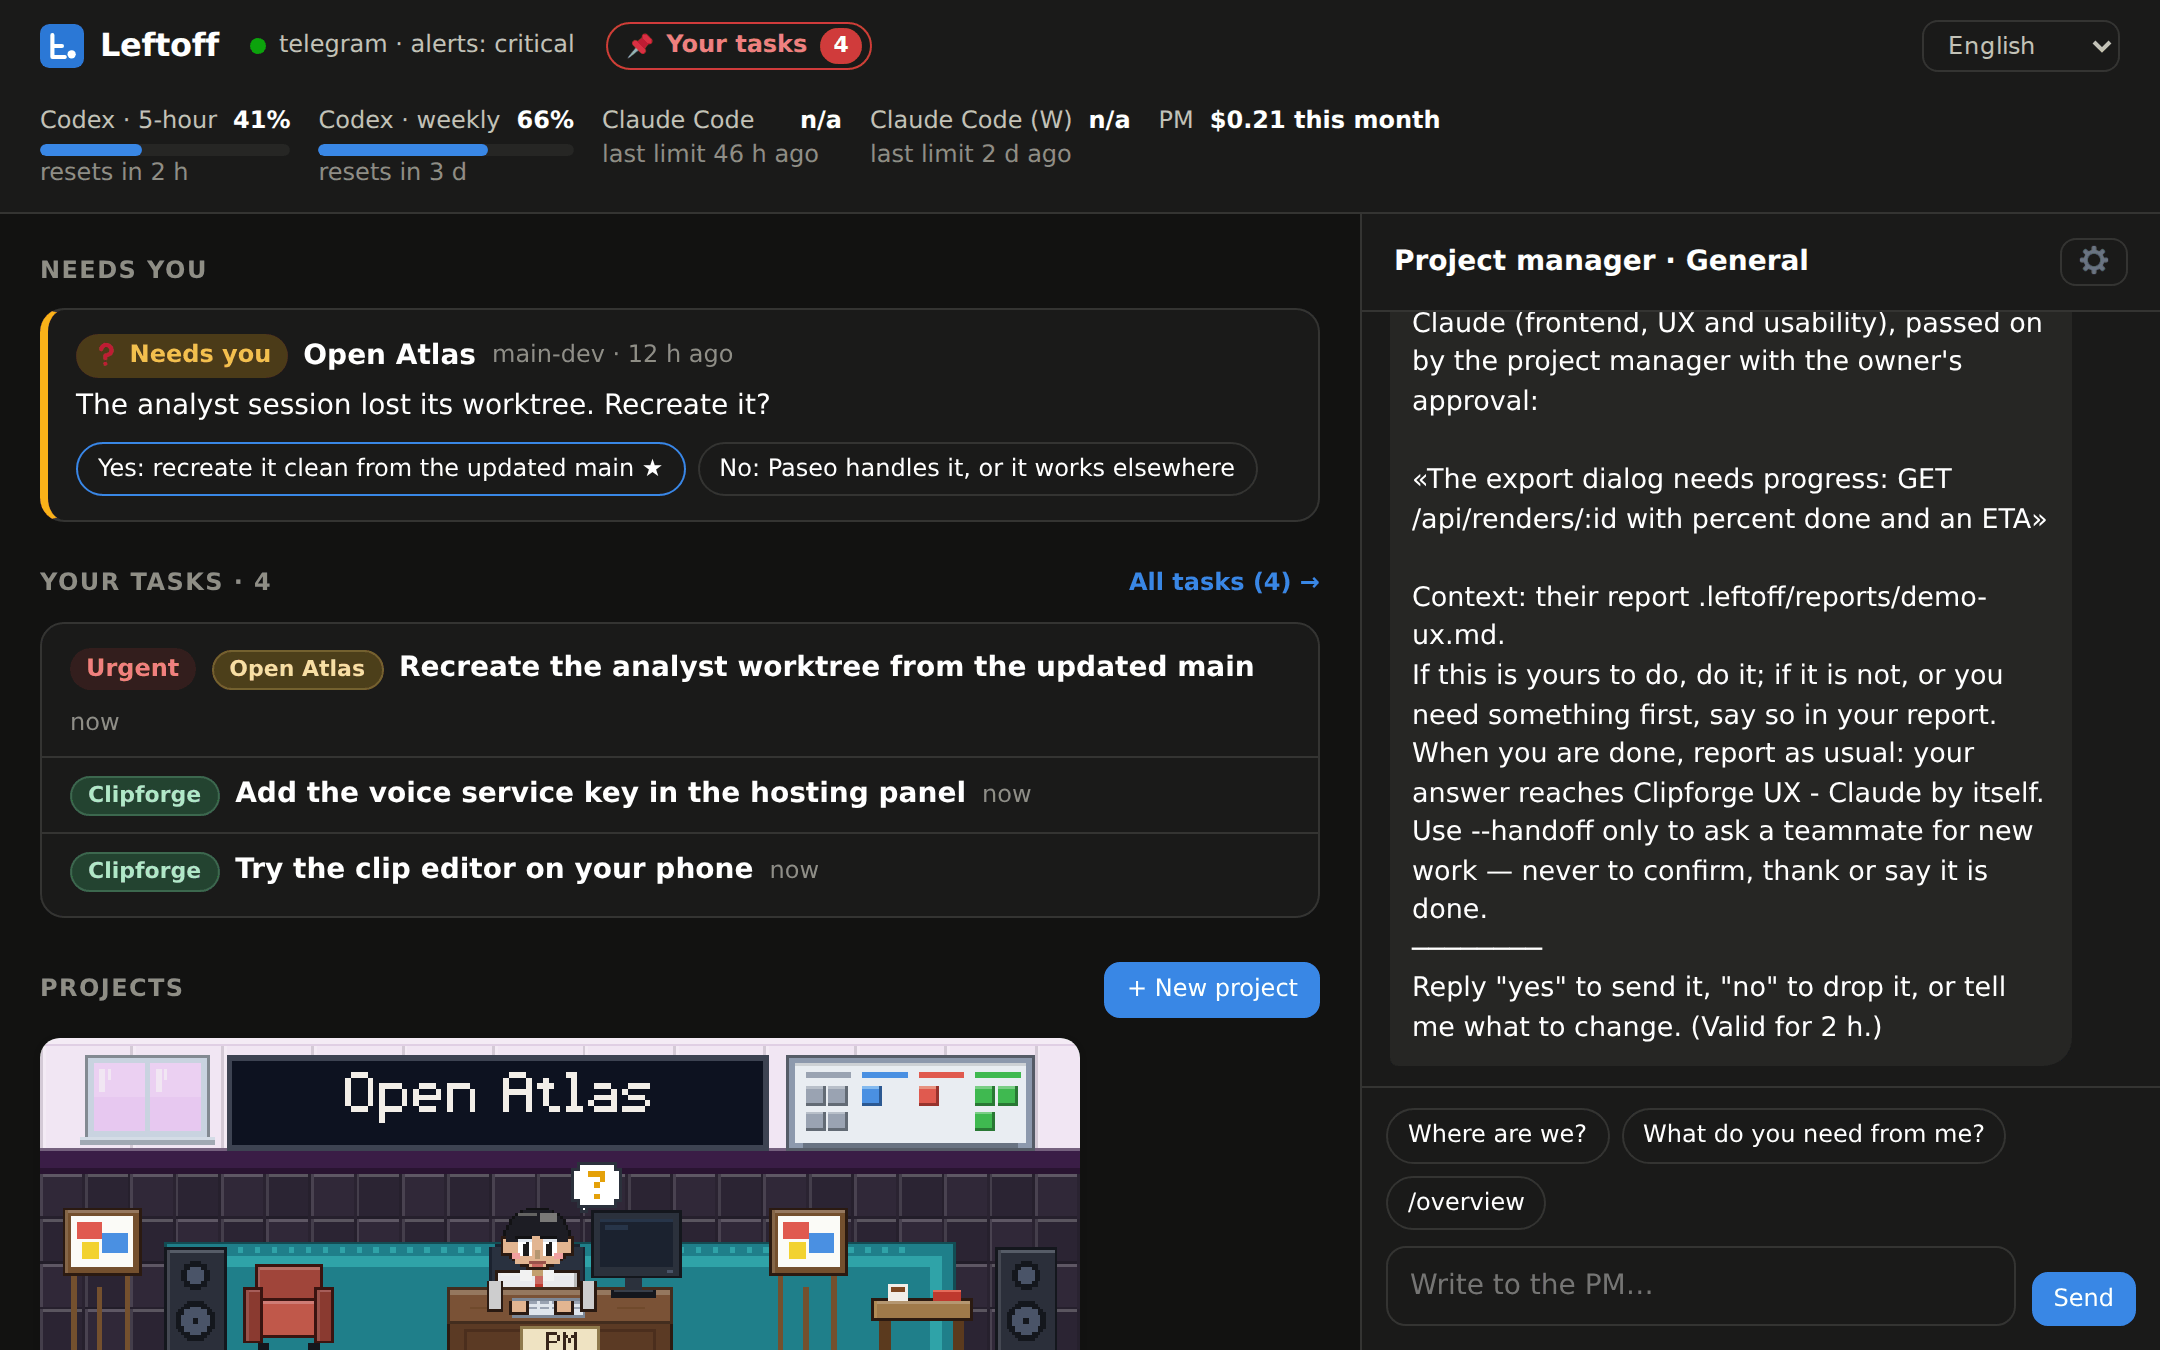
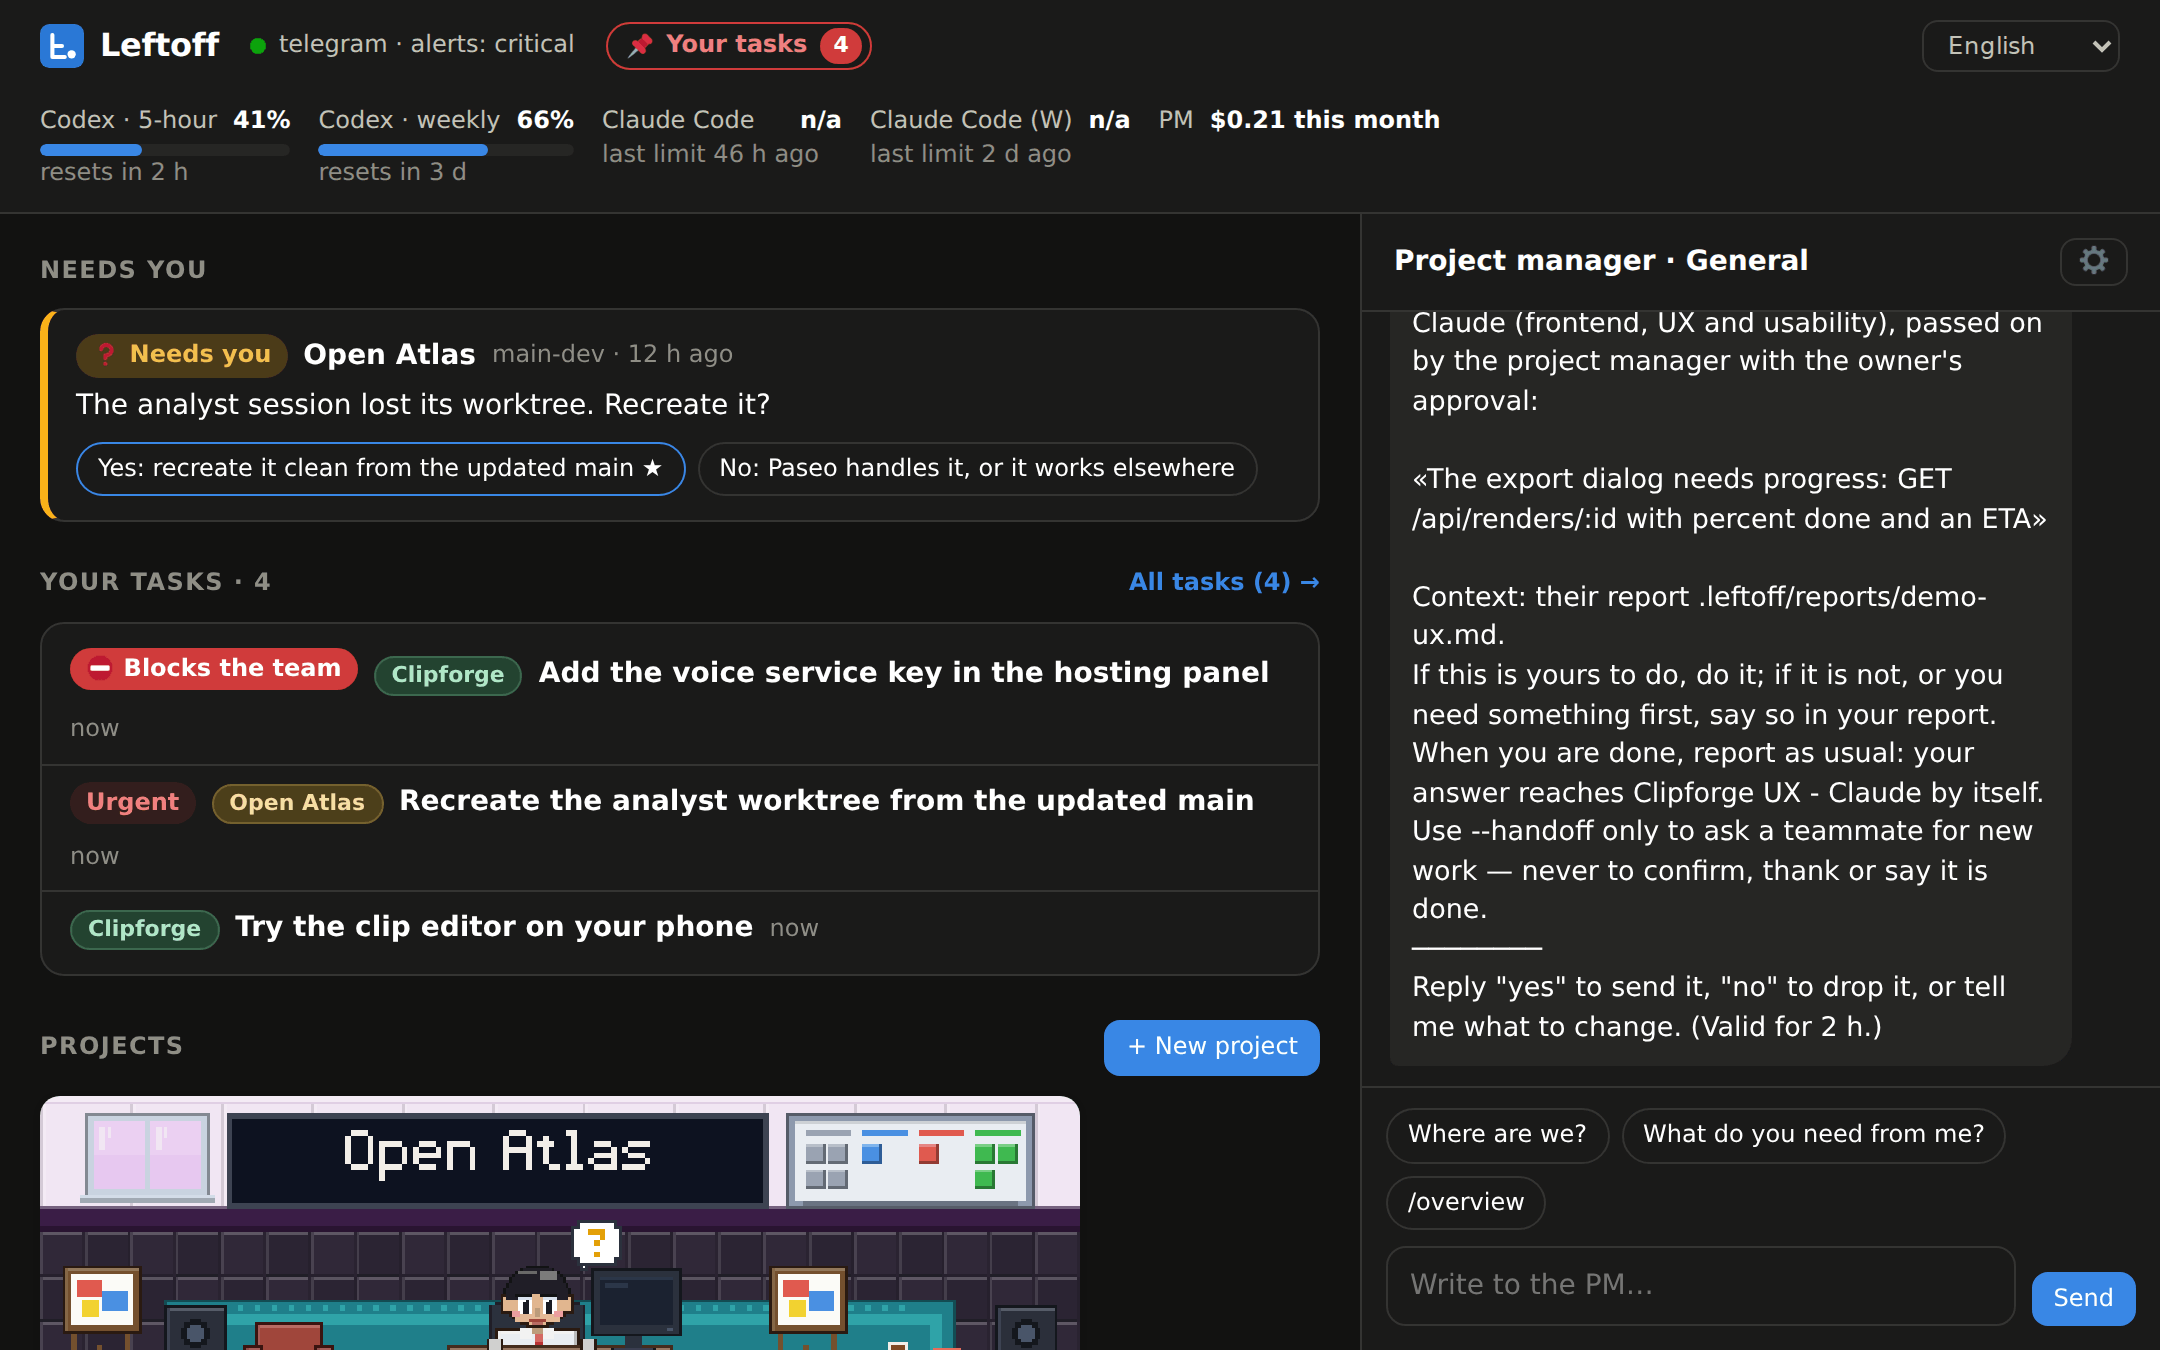
0.2.0 screenshots: a task that blocks the team, a log attached and delivered, Markdown; README alt texts, light and dark
- The demo's voice-key task blocks the team; its chat gains the owner's log sent as a Markdown file (through the
  hub's own upload), marked delivered, and an answer with bold, a list and a command to copy.
- docs/images overview, project, tasks (and «-dark»), regenerated from the demo with scripts/screenshots.mjs.
- README: the three pictures as <picture> with their dark twin, new alt texts saying what they show, tasks.png under
  «Your own to-do list», and a line crediting the screenshots' emoji (Twemoji, CC-BY 4.0).

Changed region(s): [[0.0, 0.4667, 0.6204, 1.0]]

diff --git a/scripts/demo.ts b/scripts/demo.ts
@@ -483,12 +483,23 @@ hub.attachAgents(settings);
   const { appendTaskChat, listOwnerTasks, markDelivery } = await import("../src/hub/owner-tasks.ts");
   const key = (await listOwnerTasks({ status: "open" })).find((t) => t.title.startsWith("Add the voice service key"));
   if (key) {
-    const asked = await appendTaskChat(key.id, { from: "owner", text: "Where exactly is the Environment page? I can't find it." }, new Date(now - 6 * 60_000));
-    if (asked?.entry.id) await markDelivery(key.id, asked.entry.id, { state: "delivered", to: "main-dev", at: new Date(now - 6 * 60_000 + 4000).toISOString() });
+    const asked = await appendTaskChat(key.id, { from: "owner", text: "Where exactly is the Environment page? I can't find it." }, new Date(now - 35 * 60_000));
+    if (asked?.entry.id) await markDelivery(key.id, asked.entry.id, { state: "delivered", to: "main-dev", at: new Date(now - 35 * 60_000 + 4000).toISOString() });
     await appendTaskChat(key.id, {
       from: "main-dev",
       text: "It's under the project, not the account:\n\n1. Open **Clipforge** in the hosting panel\n2. Go to *Settings* → **Environment**\n3. Add a variable named `VOICE_KEY` and paste the key there\n\nThen restart the service:\n```\nclipforge-ctl restart voice\n```\nI'll check the voice preview works as soon as it's back.",
-    }, new Date(now - 4 * 60_000));
+    }, new Date(now - 30 * 60_000));
+    // The owner tried, and sends the service's log as a file (a long paste becomes one); the team waits on this key.
+    const log = Array.from({ length: 80 }, (_, i) => `2026-11-06T21:${String(10 + Math.floor(i / 6)).padStart(2, "0")}:${String((i * 7) % 60).padStart(2, "0")} voice[${4100 + i}] ${i % 9 === 0 ? "WARN key VOICE_KEY not set in this environment, using the old one" : `preview request ${i} handled in ${40 + (i % 13)} ms`}`).join("\n");
+    const file = await hub.taskUpload(key.id, "pasted-20261106-2142.md", new TextEncoder().encode(log));
+    const sent = await appendTaskChat(key.id, { from: "owner", text: "Done, and restarted — but the preview still uses the old voice. Here is the log.", ...(file ? { files: [{ id: file.id, name: file.name, type: file.type, size: file.size }] } : {}) }, new Date(now - 9 * 60_000));
+    if (sent?.entry.id) await markDelivery(key.id, sent.entry.id, { state: "delivered", to: "main-dev", at: new Date(now - 9 * 60_000 + 3000).toISOString() });
+    await appendTaskChat(key.id, {
+      from: "main-dev",
+      text: "Thanks, the log says it: **the service still reads the old key**.\n\n- the new one is in *Environment*, good\n- but `restart` keeps the environment it started with\n\nRun this instead, then try the preview again:\n```\nclipforge-ctl restart voice --reload-env\n```",
+    }, new Date(now - 6 * 60_000));
+    const { setBlocking } = await import("../src/hub/owner-tasks.ts");
+    await setBlocking(key.id, true);
   }
   watchOwnerTasks((task, entry) => void hub.taskGet(task.id).then((view) => view && web?.ownerTask({ task: view, ...(entry ? { entry: chatLine(entry) } : {}) })));
 }

diff --git a/README.md b/README.md
@@ -6,7 +6,10 @@ Leftoff gives every project you run with AI coding agents a **project manager yo
 knows what Claude Code and Codex did in each repository, tells you when something is finished, blocked or
 waiting for you, answers "where are we?" on your phone, and passes your decisions back to the right agent.
 
-![The Leftoff control panel: five projects, their agents, a to do / doing / blocked / done bar for each, the questions agents are waiting on, and the project manager's chat on the right](docs/images/overview.png)
+<picture>
+  <source media="(prefers-color-scheme: dark)" srcset="docs/images/overview-dark.png">
+  <img alt="The Leftoff control panel: the question an agent is waiting on, with its options as buttons; the owner's tasks, each with its project's coloured label, the one that blocks the team first; each project as a pixel-art room; and the project manager's chat on the right" src="docs/images/overview.png">
+</picture>
 
 > **Status: alpha (0.1).** It runs a real workflow daily, but expect rough edges, and APIs and file formats may
 > still change. Built for one person running several projects; it is not a multi-user service.
@@ -46,6 +49,12 @@ In a company, a project manager and a stand-up solve this. Leftoff gives you bot
   project in its colour, what blocks the team first. Each task has a chat with whoever helps you do it (an agent, or the
   PM), where you see whether your words arrived and someone is working on them, attach screenshots and long logs, and
   get commands to copy. `/tasks` in Telegram; the 9:00 stand-up opens with what the team is waiting for from you.
+
+  <picture>
+    <source media="(prefers-color-scheme: dark)" srcset="docs/images/tasks-dark.png">
+    <img alt="«Your tasks» in the control panel: on the left the owner's tasks, each with its project's coloured label, «Blocks the team» first, then the urgent one; on the right a task's chat, where the owner's message with a log attached shows «delivered», and the agent's answer has bold text, a list and a command with a Copy button" src="docs/images/tasks.png">
+  </picture>
+
 - **Fewer messages.** Telegram carries what needs you; plans ready, finished work and the operational PM's own
   updates wait in the panel and the stand-up.
 - **A control panel** in the browser: every project, its agents, a sprint board derived from what the agents
@@ -58,7 +67,10 @@ In a company, a project manager and a stand-up solve this. Leftoff gives you bot
   desk. Send `/office` in Telegram to get the picture on your phone. In an agent's settings you can make it a man or a
   woman, and swap the office style for an original cut-paper cartoon one (`leftoff agents look`).
 
-![A project's page in the control panel: the office with the PM at its desk and three agents — main developer, UX, tests and review — one working, one finished, one idle, a handoff sheet on its way to the PM, and the PM's chat on the right](docs/images/project.png)
+<picture>
+  <source media="(prefers-color-scheme: dark)" srcset="docs/images/project-dark.png">
+  <img alt="A project's page in the control panel: its pixel-art office with the PM at its desk and three agents labelled with their roles — architect and backend, frontend and UX, tests and code review — one working, one finished, one idle, a handoff sheet on its way to the PM; on the right the PM's chat, with a teammate's request waiting for the owner's yes" src="docs/images/project.png">
+</picture>
 
 ## How it works
 
@@ -220,3 +232,6 @@ whole suite with no network, no model calls and no access to your real agents or
 ## License
 
 [Apache License 2.0](LICENSE). Copyright 2026 Maurizio Caporali.
+
+The screenshots come from the demo (`npm run demo`), with invented projects; the emoji in them are
+[Twemoji](https://github.com/twitter/twemoji), CC-BY 4.0 ([credits](docs/images/CREDITS.md)).
